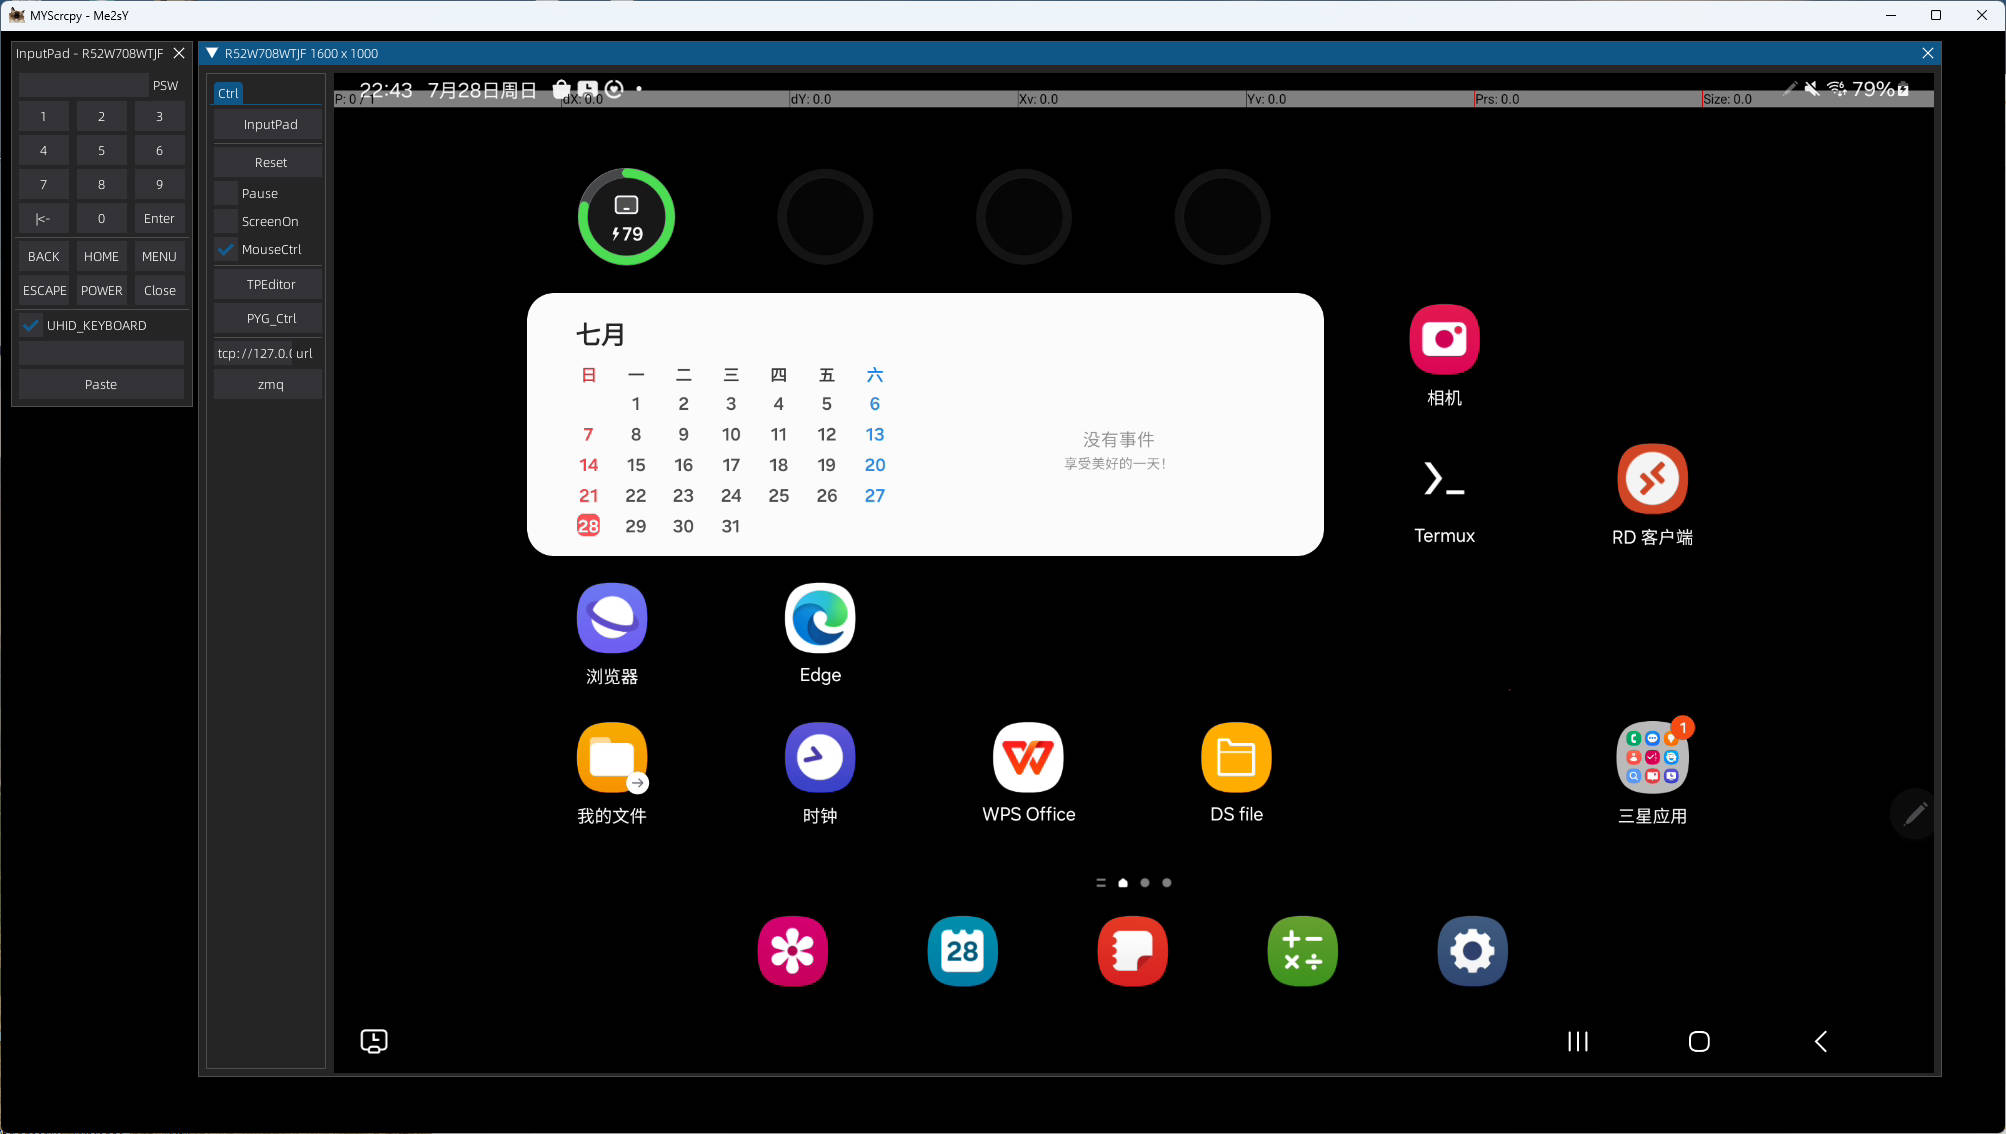
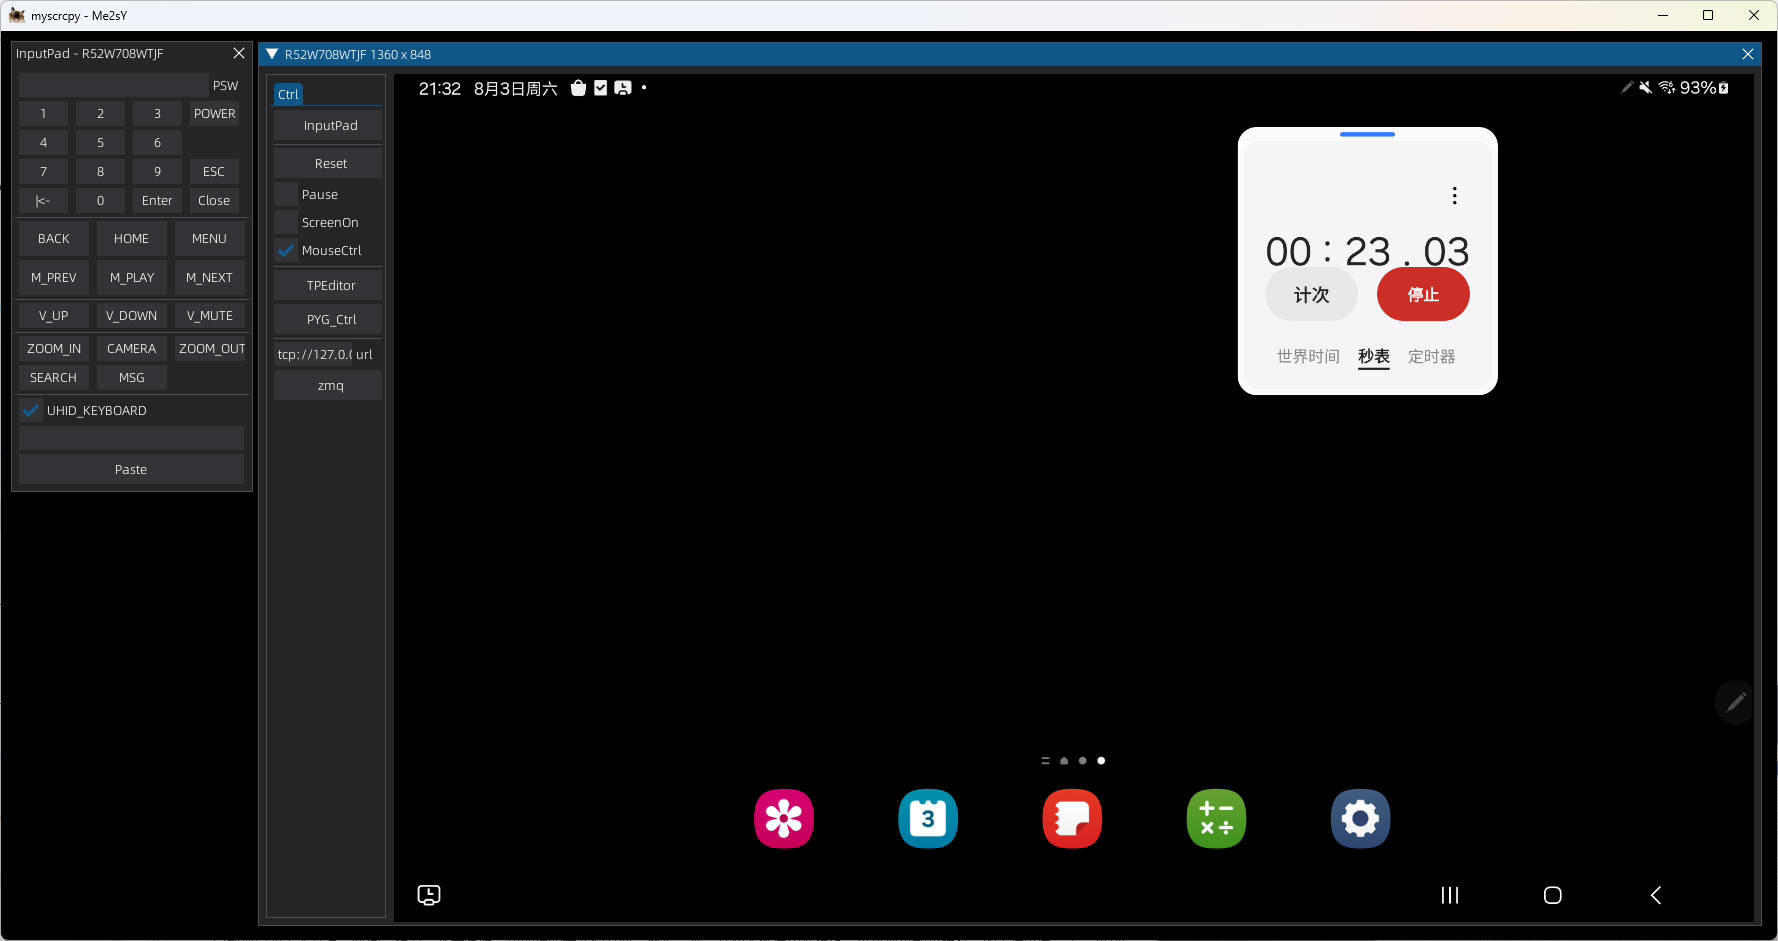
1.1.3
1.新增英文说明
2.更新截图

diff --git a/README_EN.md b/README_EN.md
@@ -1,0 +1,147 @@
+# MYScrcpy
+
+### [中文简介](README.md)
+
+A [Scrcpy](https://github.com/Genymobile/scrcpy/) client implemented in **Python**. 
+
+Includes comprehensive video, audio, and control flow parsing and presentation. **Developer-friendly, ready to use upon integration.**
+
+Uses [DearPyGui](https://github.com/hoffstadt/DearPyGui) as the main GUI. Supports Chinese input, unlocking screen passwords, and other features.
+
+In some control proxy scenarios, [pygame](https://www.pygame.org/) is used for mouse and keyboard control mapping GUI. 
+
+Pygame provides features such as mouse hiding and key event listening, suitable for key mapping in **FPS**.
+
+5900x + GTX1080 + Samsung Galaxy Tab S9 8gen2/Xiaomi 11pro 888 with 1920x1080 resolution, Pygame control mode can achieve **13~30ms** latency.
+
+Using **SharedMemory**, video frames are shared through memory, enabling web rendering with Nicegui and image processing with OpenCV.
+
+## Features
+
+- [x] Wired connection to Android devices
+- [x] Video stream parsing (H264) to generate numpy.ndarray for graphic processing with OpenCV, image, etc.
+- [x] Audio stream parsing (FLAC) with [pyflac](https://github.com/sonos/pyFLAC) for decoding and [pyaudio](https://people.csail.mit.edu/hubert/pyaudio/) for playback
+- [x] Control key mapping and mouse mapping
+- [x] Mixed use of UHID-Mouse and mouse clicks, enabling mixed use of mouse on Android and PC interfaces
+- [x] UHID-Keyboard for simulating an external keyboard, supporting direct Chinese input (tested with Sogou Input Method)
+- [x] SharedMemory for low-latency video frame sharing between processes
+- [x] ZMQ communication using ZMQ pull/push for controlling the phone
+- [x] Mouse wheel zoom, scroll functions under DPG GUI
+- [x] Unlock device screen using InputPad to input password
+- [x] Automatic adjustment of device video stream rotation and unrestricted zooming under DPG GUI
+- [x] Adjust mouse movement speed with Ctrl In Game Mode
+- [x] TwinWindow approach to solve DPG widget overlap issues, implementing DPG control mapping editor (**TPEditor**)
+- [x] Minimum latency of 7ms in pure Pygame control mode
+- [x] Audio ZMQ Server to transmit audio streams over network sockets, enabling remote sound transmission, MIC monitoring, and more
+- [x] Friendly to low Android version devices, automatically disabling Audio, Camera, UHID, etc., for better performance, recommended **Android 12** or above
+
+
+## Basic Usage
+
+### 1.Install or clone the project
+```bash
+ pip install myscrcpy-X.X.X.tar.gz
+```
+
+### 2.Structure:
+   1. **utils.py** Defines basic tool classes and various parameters
+   2. **gui/dpg** DearPyGui interface implementation including video rendering, mouse events, UHID mouse and keyboard input, mapping editor, etc.
+   3. **gui/pg** Pygame interface implementation including video rendering, mouse events, keyboard control, etc.
+   4. **gui/ng** _(DEMO) Nicegui Web UI, uses SharedMemory to read video frames_
+   5. **controller/** Video stream, audio stream, control stream, device controller, etc.
+   6. **homepath/.myscrcpy/tps/*.json** Save TouchProxy configuration files in .json format
+
+### 3.For developer
+```python
+from myscrcpy.controller import *
+
+device = DeviceFactory.device()
+# device = DeviceController(DeviceFactory())
+
+
+# Connect to Scrcpy
+# Create a SocketController and pass to connect method
+device.connect(
+   VideoSocketController(max_size=1366),
+   # Use Camera:
+   # VideoSocketController(max_size=1366, camera=VideoCamera(camera_size='1280x720', camera_fps=120)),
+   
+   AudioSocketController(audio_source=AudioSocketController.SOURCE_OUTPUT),
+   # AudioSocketServer
+   # AudioSocketServer(output=False),
+    
+   # ControlSocket CAN NOT Create When VideoSocket Source is Camera
+   ControlSocketController()
+)
+
+# create ZMQ Control Server
+ZMQControlServer(device.csc).start()
+sender = ZMQControlServer.create_sender()
+sender.send(ControlSocketController.packet__screen(True))
+
+# Get RGB Frame np.ndarray
+frame = device.vsc.get_frame()
+device.csc.f_set_screen(False)
+
+# ZMQ Audio Server
+# from myscrcpy.controller.audio_socket_controller import ZMQAudioServer, ZMQAudioSubscriber
+# zas = ZMQAudioServer(device.asc)
+# zas.start()
+
+# ZMQ Audio Subscriber
+# sub = ZMQAudioSubscriber()
+# sub.start()
+...
+```
+
+### 4.Using the GUI
+:exclamation: _On Ubuntu and other Linux systems, installing portaudio first_
+```bash
+sudo apt install libportaudio-dev
+```
+
+#### Run DearPyGui GUI
+```bash
+python -m myscrcpy.run
+```
+
+#### Run pygame GUI (high-speed control mode)
+
+:exclamation: _Using this mode requires pre-configuring the corresponding key mappings in the DPG Gui_
+
+:exclamation: _To pursue performance, this mode excludes rotation and other functions. Device rotation or switching between horizontal and vertical screens may cause termination._
+```bash
+python -m myscrcpy.run -g
+```
+
+## Screenshots
+
+### Main interface
+![dpg Screenshot](myscrcpy/files/images/dpg_gui.jpg)
+
+### Nicegui Web interface (DEMO)
+![Nicegui Demo](myscrcpy/files/images/web_gui_demo_nicegui.jpg)
+
+### Key mapping editor (TPEditor)
+![Touch Proxy Editor](myscrcpy/files/images/edit_touch_proxy.jpg)
+
+### 7ms latency
+![7ms](myscrcpy/files/images/7ms.jpg)
+
+
+## Thoughts
+As a long-time user of Scrcpy since the 1.X era, I am amazed by its development and magical features. I've always wanted to do something, but due to other projects (laziness), I never got started.
+
+Until I encountered the excellent project [Scrcpy Mask](https://github.com/AkiChase/scrcpy-mask), I felt it was time to do something.
+
+On June 1, 2024, I started reading Scrcpy source code, using Python language and leveraging excellent tools like pyav, adbutils, numpy, pyflac, and more to create the MYScrcpy project.
+
+Initially, the goal was to solve mouse operation mapping issues in certain scenarios. As development progressed, many new ideas involving graphic analysis, AI integration (YOLO), automatic control, etc., emerged.
+
+**MYScrcpy** is the beginning of the MY (Mxx & ysY) series. Next, I will continue to develop and improve this project and related applications.
+
+Currently, the project is developed personally, with limited time, energy, and skill. The documentation and feature descriptions will be gradually improved. Everyone is welcome to use and provide feedback. You can also contact me via email. If needed, a group can be created for contact.
+
+Welcome to visit my [Bilibili](https://space.bilibili.com/400525682), where I will record some operational and explanatory videos. Hope you enjoy them.
+
+Finally, I deeply appreciate the support from my beloved during the development. :heart_eyes:
